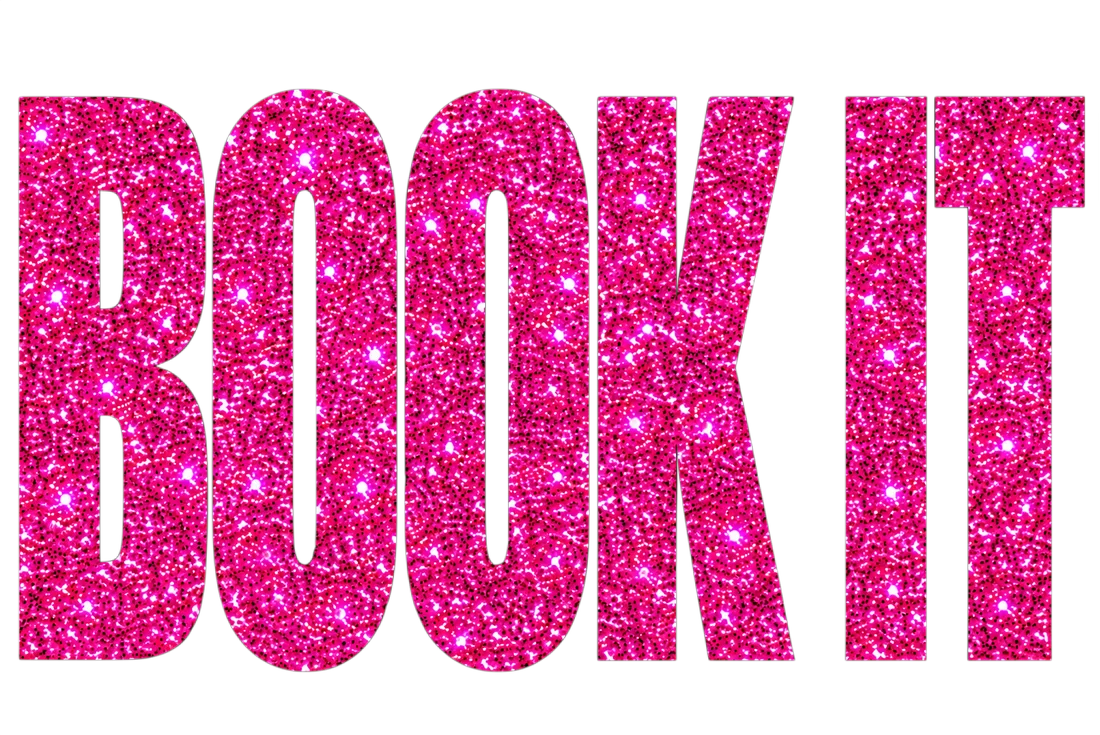
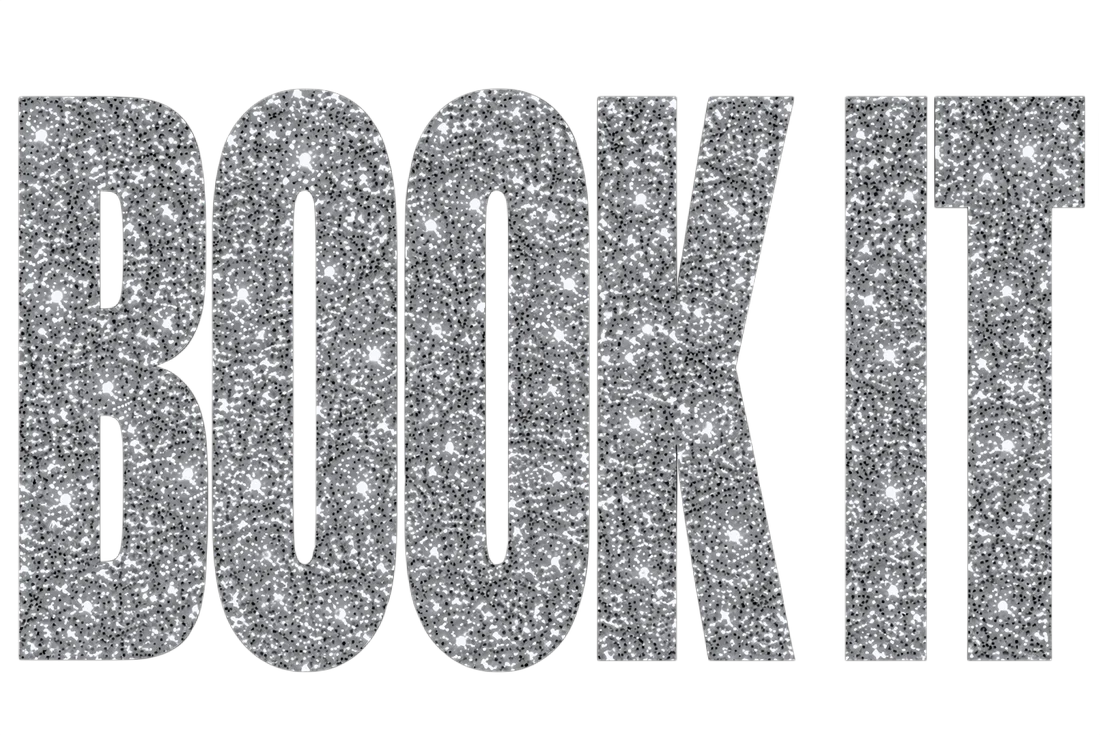
silver glitter words for contrast
Claude-Session: https://claude.ai/code/session_01WbtRzhgL5VXSv96dk2bG6E

diff --git a/app/globals.css b/app/globals.css
@@ -76,7 +76,7 @@ button { font: inherit; color: inherit; }
 @keyframes glow { 0% { opacity: 0; transform: scale(.96); } 25% { opacity: 1; } 45% { filter: brightness(1.12); } 70% { filter: brightness(.95); } 100% { opacity: 1; transform: scale(1); } }
 
 /* glitter words */
-.glitter { position: absolute; pointer-events: none; z-index: 6; height: auto; filter: drop-shadow(0 3px 0 rgba(0,0,0,.25)) drop-shadow(0 10px 30px rgba(255, 62, 165, .35)); animation: shimmer 3.4s ease-in-out infinite; }
+.glitter { position: absolute; pointer-events: none; z-index: 6; height: auto; filter: drop-shadow(0 3px 0 rgba(0,0,0,.25)) drop-shadow(0 10px 26px rgba(0, 0, 0, .3)); animation: shimmer 3.4s ease-in-out infinite; }
 @keyframes shimmer { 0%, 100% { filter: brightness(1) saturate(1) drop-shadow(0 3px 0 rgba(0,0,0,.25)); } 50% { filter: brightness(1.25) saturate(1.15) drop-shadow(0 3px 0 rgba(0,0,0,.25)) drop-shadow(0 0 18px rgba(255,255,255,.55)); } }
 .twinkle { position: absolute; width: 26px; height: 26px; pointer-events: none; z-index: 7; animation: twinkle 2.2s ease-in-out infinite; }
 @keyframes twinkle { 0%, 100% { transform: scale(.3) rotate(0); opacity: 0; } 50% { transform: scale(1) rotate(45deg); opacity: 1; } }
